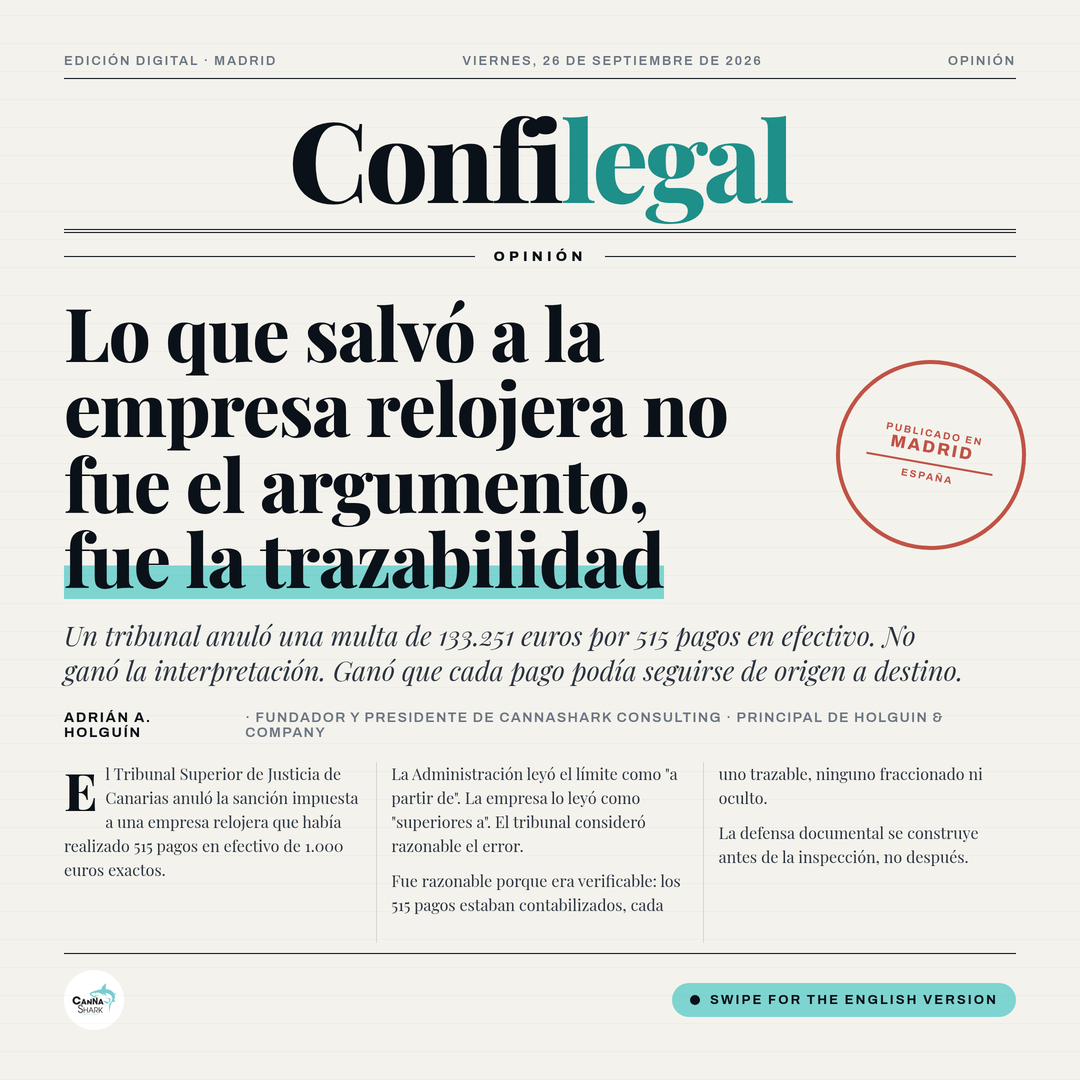
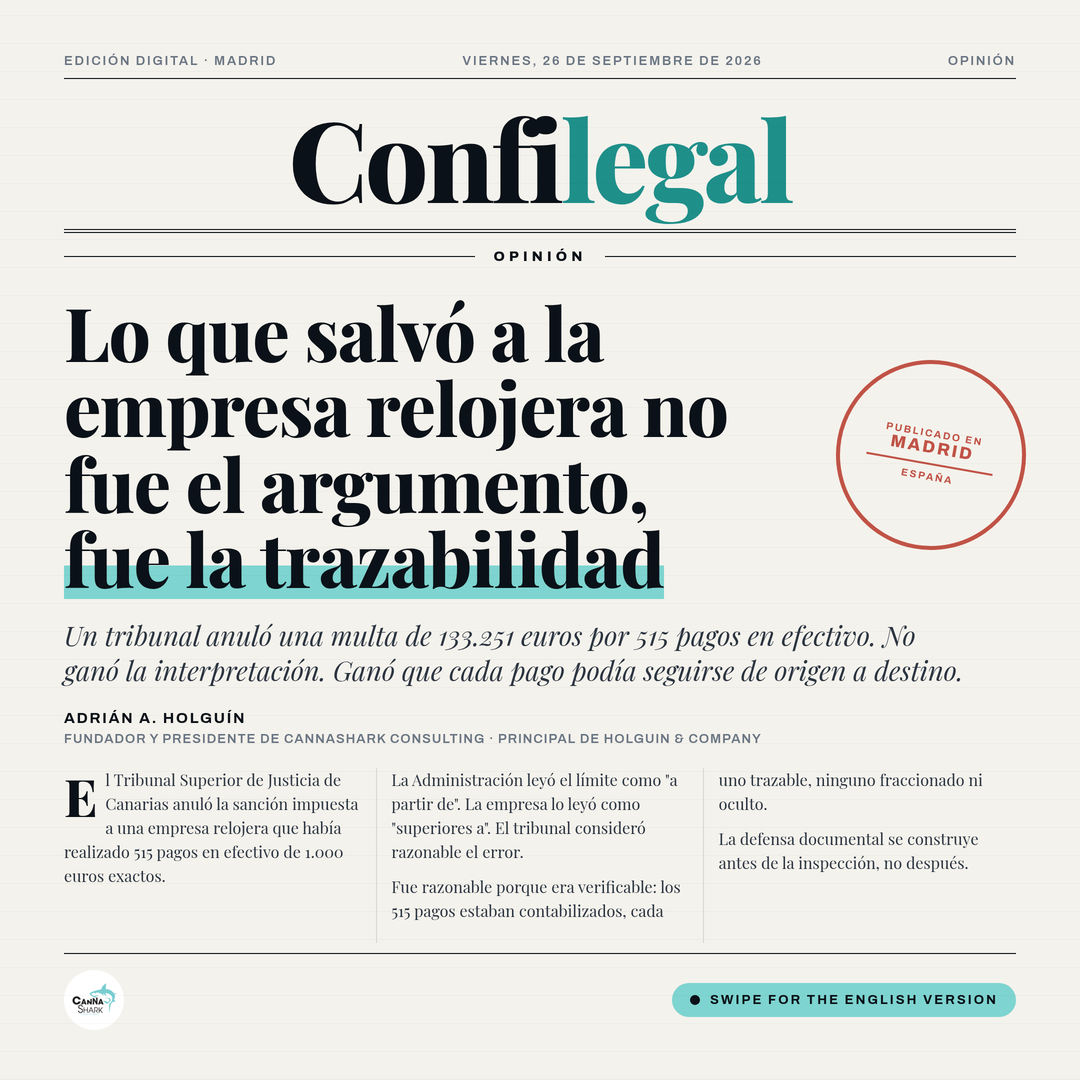
Set the slide 1 byline on two lines
Claude-Session: https://claude.ai/code/session_017rfC7pWLZ1VbkCbctQoEX1

Changed region(s): [[0.0611, 0.6417, 0.9167, 0.8556]]

diff --git a/social/2026-10-03-confilegal/source/s1.html b/social/2026-10-03-confilegal/source/s1.html
@@ -10,8 +10,8 @@
 .head{font-family:"Playfair Display",serif;font-weight:800;font-size:74px;line-height:1.02;letter-spacing:-.015em;margin-top:30px;text-wrap:balance}
 .head mark{background:linear-gradient(transparent 58%, var(--teal) 58%, var(--teal) 92%, transparent 92%);color:inherit}
 .deck{font-family:"Playfair Display",serif;font-style:italic;font-size:27px;line-height:1.3;color:var(--ink2);margin-top:22px;max-width:900px}
-.byline{margin-top:22px;font-family:"Archivo",sans-serif;font-weight:700;font-size:14px;letter-spacing:.12em;text-transform:uppercase;color:var(--ink);display:flex;gap:14px;align-items:center}
-.byline span{font-weight:600;color:var(--mute);letter-spacing:.1em}
+.byline{margin-top:22px;font-family:"Archivo",sans-serif;font-weight:700;font-size:15px;letter-spacing:.12em;text-transform:uppercase;color:var(--ink);display:flex;flex-direction:column;gap:6px;align-items:flex-start}
+.byline span{font-weight:600;color:var(--mute);letter-spacing:.08em;font-size:13px;white-space:nowrap}
 .cols{margin-top:22px;column-count:3;column-gap:30px;column-rule:1px solid var(--rule);font-family:"Playfair Display",serif;font-size:16px;line-height:1.5;color:var(--ink2);flex:1}
 .cols p{margin-bottom:.7em}
 .cols p:first-child::first-letter{font-size:52px;font-weight:800;float:left;line-height:.85;padding:6px 8px 0 0;color:var(--ink)}
@@ -27,7 +27,7 @@
   <div class="section">Opinión</div>
   <h1 class="head">Lo que salvó a la empresa relojera no fue el argumento, <mark>fue la trazabilidad</mark></h1>
   <p class="deck">Un tribunal anuló una multa de 133.251 euros por 515 pagos en efectivo. No ganó la interpretación. Ganó que cada pago podía seguirse de origen a destino.</p>
-  <div class="byline">Adrián A. Holguín <span>· Fundador y presidente de CannaShark Consulting · Principal de Holguin &amp; Company</span></div>
+  <div class="byline">Adrián A. Holguín <span>Fundador y presidente de CannaShark Consulting · Principal de Holguin &amp; Company</span></div>
   <div class="cols">
     <p>El Tribunal Superior de Justicia de Canarias anuló la sanción impuesta a una empresa relojera que había realizado 515 pagos en efectivo de 1.000 euros exactos.</p>
     <p>La Administración leyó el límite como "a partir de". La empresa lo leyó como "superiores a". El tribunal consideró razonable el error.</p>
